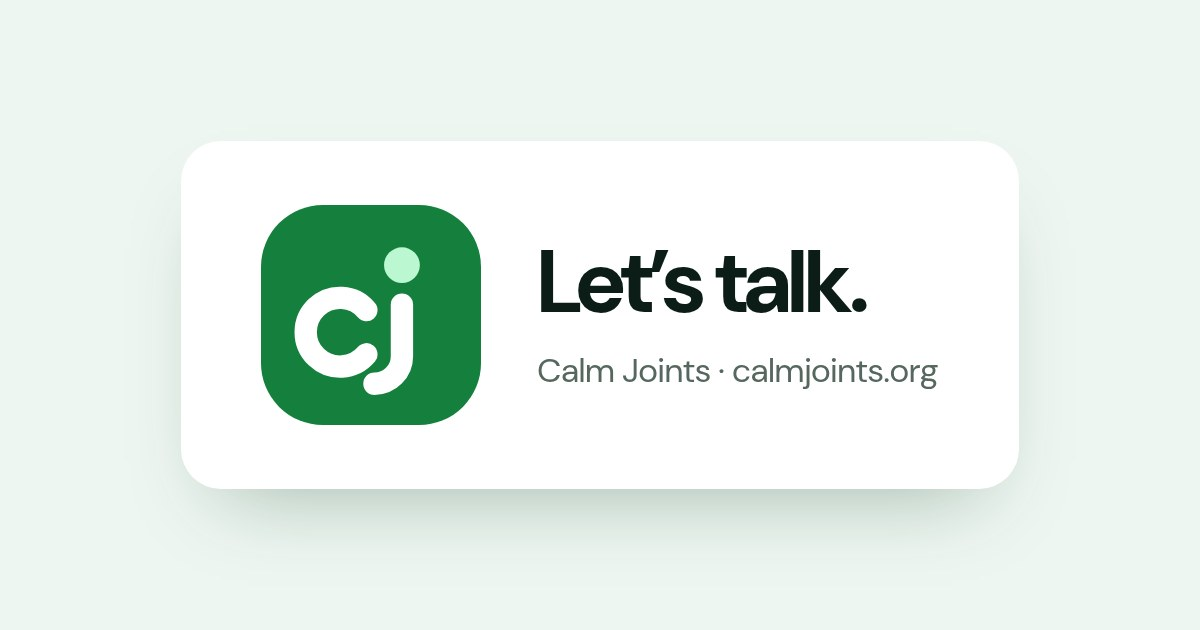
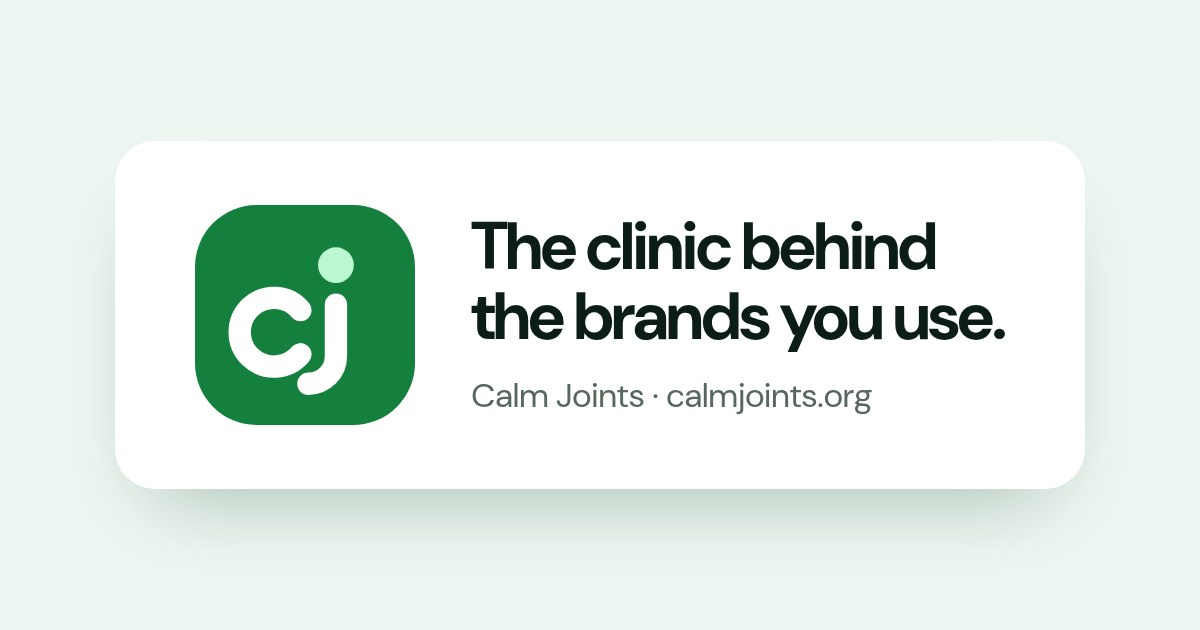
Replace 'Let's talk' with 'Put a physio on your site' + For brands nav + new link preview

Changed region(s): [[0.1233, 0.3016, 0.8633, 0.7841]]

diff --git a/index.html b/index.html
@@ -176,7 +176,7 @@
     <nav class="nav-links" aria-label="Primary">
       <a href="#hubs">Hubs</a>
       <a href="#join">Physios</a>
-      <a href="#talk">Let’s talk</a>
+      <a href="#talk">For brands</a>
       <a href="/careers">Careers</a>
       <a class="btn btn-primary" id="nav-book" href="#" data-book>Book a visit</a>
     </nav>
@@ -273,7 +273,7 @@
 
   <section class="block" id="talk">
     <div class="wrap narrow">
-      <div class="head"><p class="kicker">Brands, clinics, partners</p><h2>Let’s talk.</h2><p>Leave your details and a person will get back to you.</p></div>
+      <div class="head"><p class="kicker">For brands, gyms and clinics</p><h2>Put a physio on your site.</h2><p>Send us your website. We’ll show you what a Calm Joints physio looks like on your brand. A real person writes back.</p></div>
       <form id="talk-form" novalidate>
         <div class="fields">
           <div class="pair">
@@ -283,7 +283,7 @@
           <label>Email<input name="email" type="email" autocomplete="email" required placeholder="you@domain.com" maxlength="254"></label>
           <label>Anything else? <span class="hint">optional</span><textarea name="message" maxlength="1200"></textarea></label>
           <label class="hp">Company<input name="company" type="text" tabindex="-1" autocomplete="off"></label>
-          <button class="btn btn-primary" type="submit"><span class="spin" aria-hidden="true"></span><span class="label">Send</span></button>
+          <button class="btn btn-primary" type="submit"><span class="spin" aria-hidden="true"></span><span class="label">Show me</span></button>
         </div>
         <div class="status" id="talk-status" role="status" aria-live="polite"></div>
       </form>
